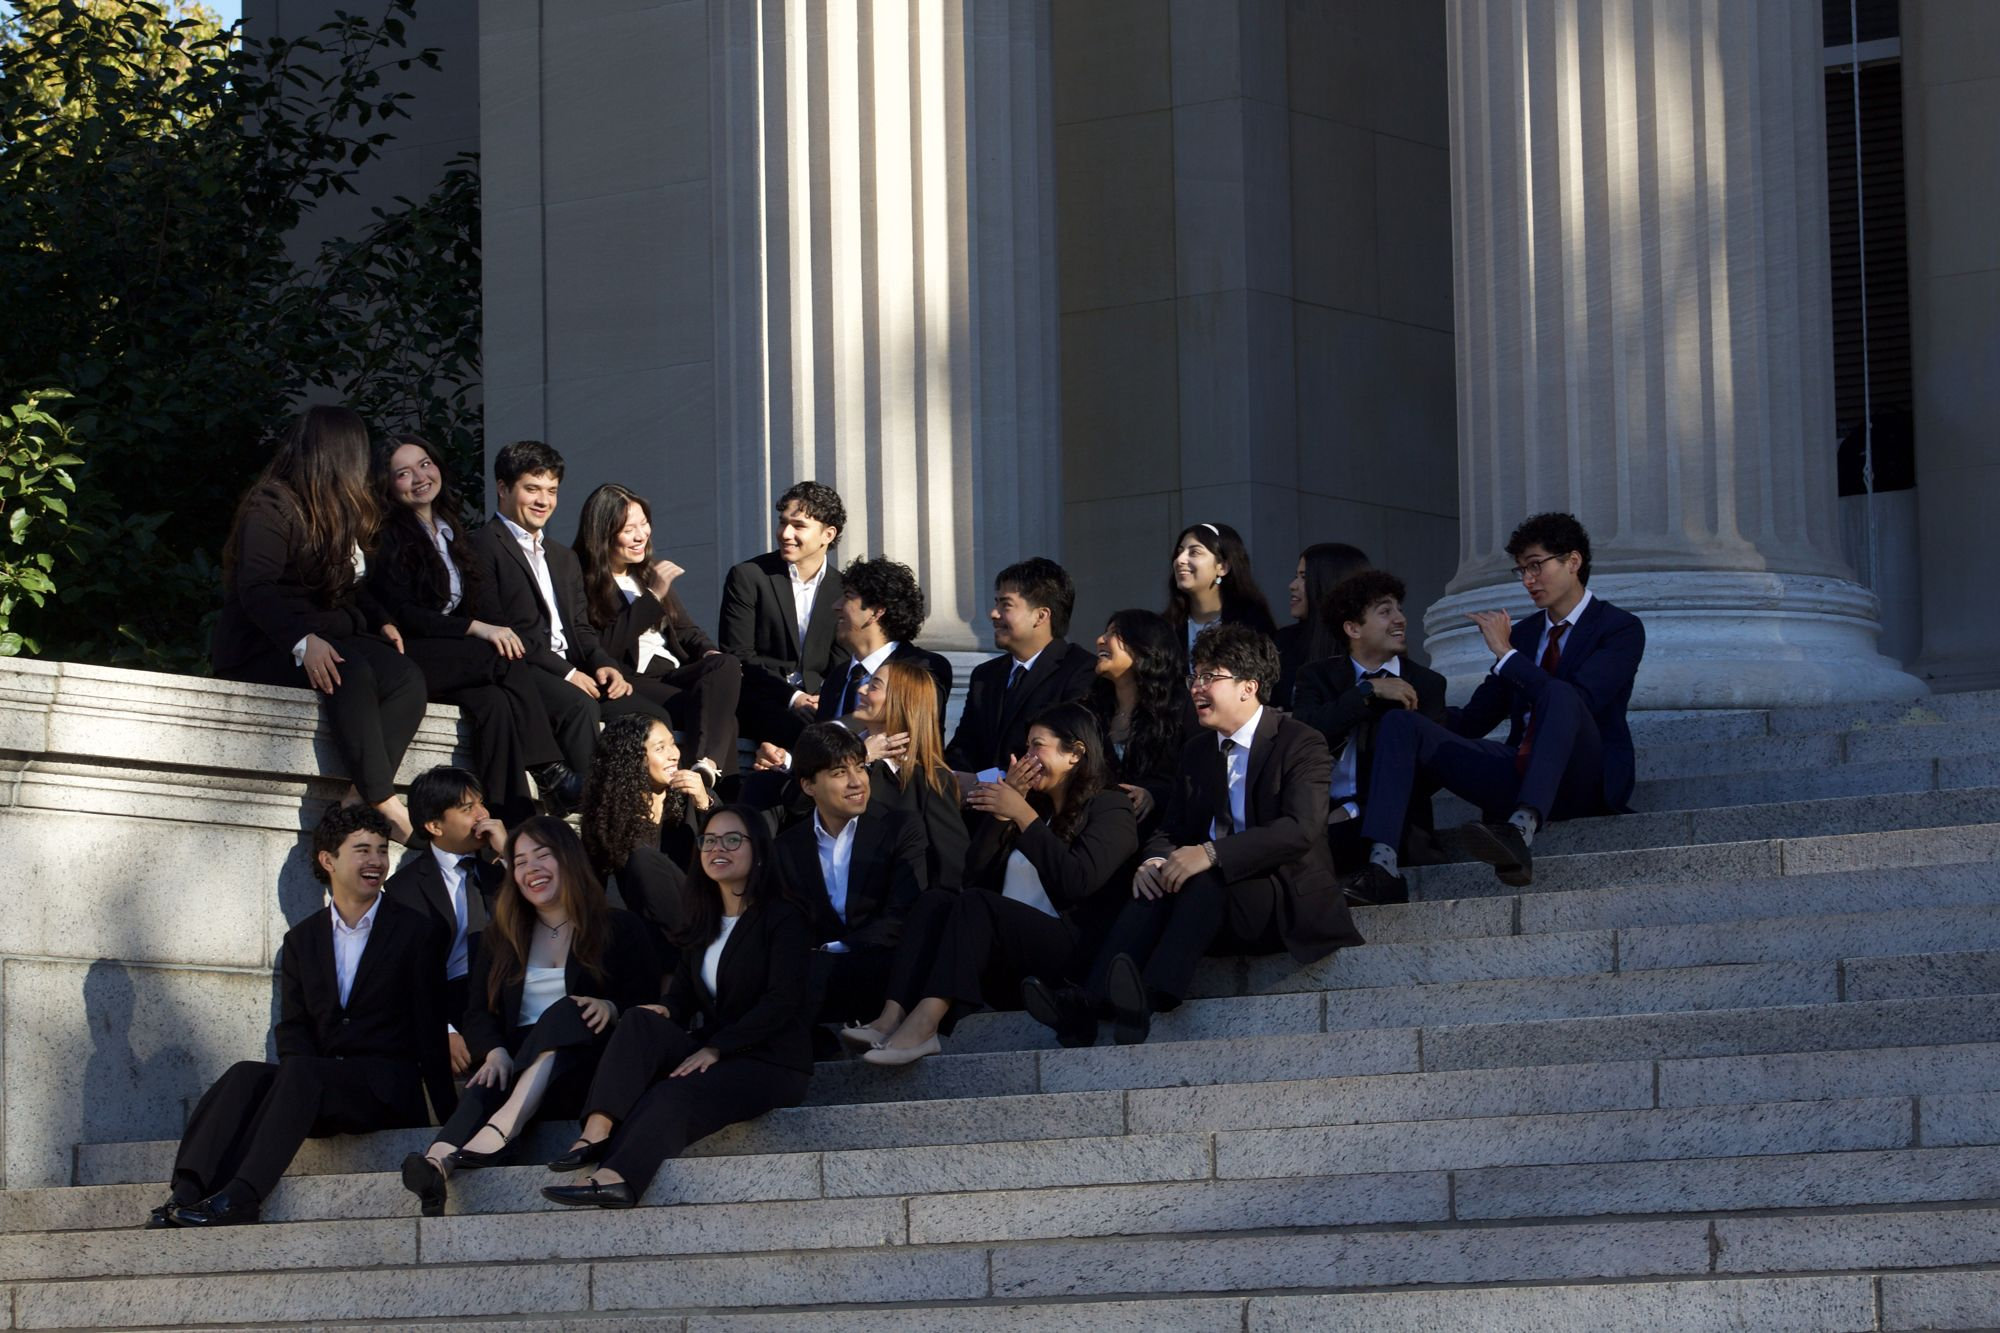
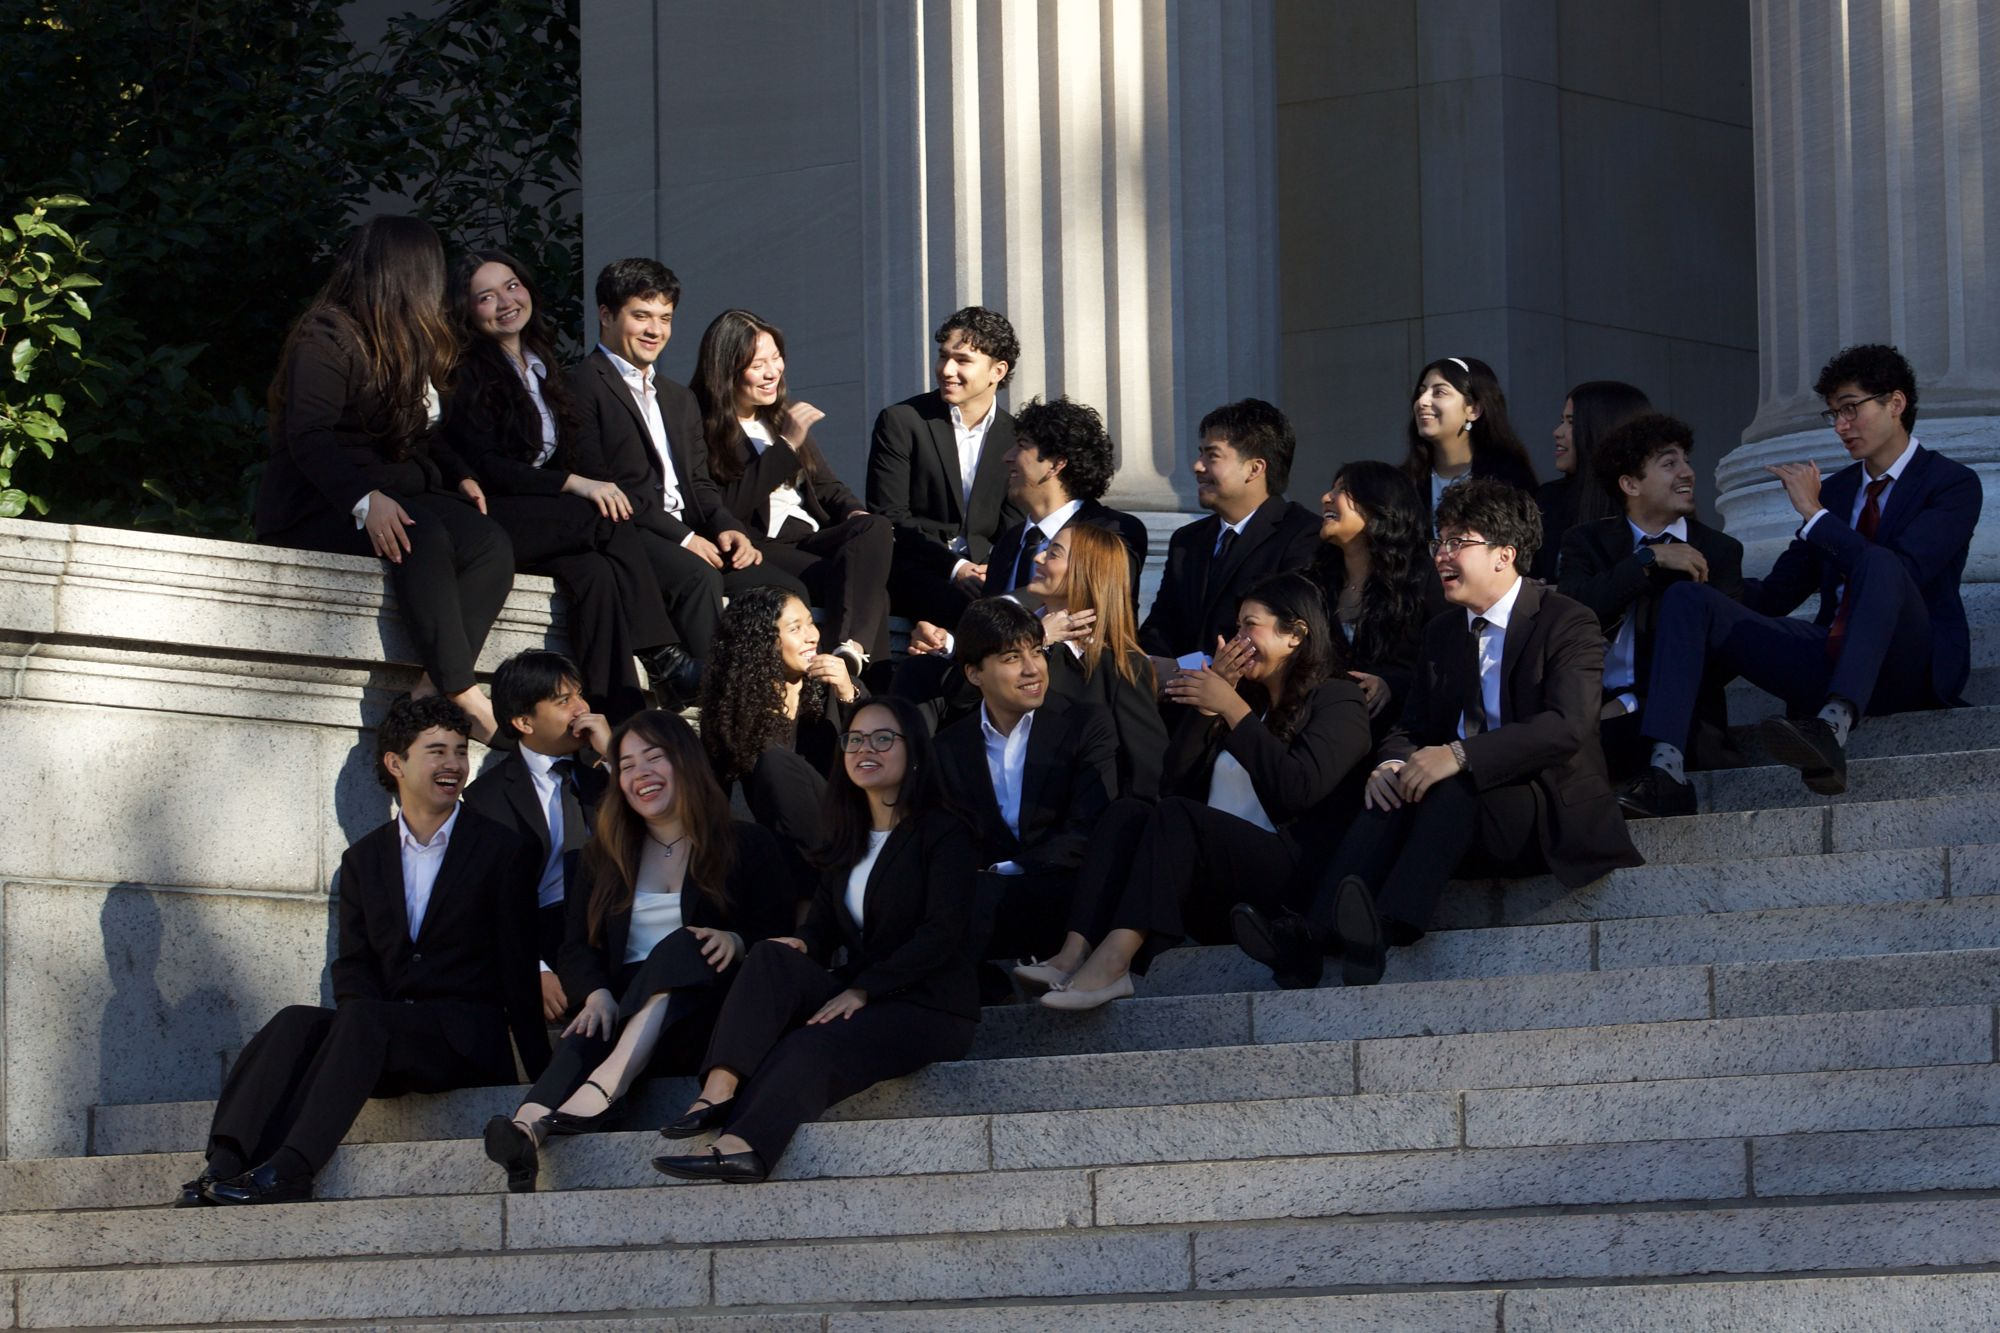
Menu order, Sponsors photo crop, spell out OCM
- Menu: Home, About, Events, Programs, Convention, Team
- Sponsors hero: crop the empty steps on the right
- Team: "Operational Committee Members" instead of OCM

diff --git a/src/pages/Team.tsx b/src/pages/Team.tsx
@@ -52,7 +52,7 @@ export function Team() {
       <div className="container team">
         <TeamGroup title="Co-Presidents" members={coPresidents} />
         <TeamGroup title="Executive Board" members={executiveBoard} />
-        <TeamGroup title="OCM" subtitle="Supporting our programs, events, and ALPFAMILIA community." members={ocm} large />
+        <TeamGroup title="Operational Committee Members" subtitle="Supporting our programs, events, and ALPFAMILIA community." members={ocm} large />
       </div>
     </>
   )

diff --git a/src/data/site.ts b/src/data/site.ts
@@ -20,9 +20,9 @@ export type NavItem = { label: string; to: string; external?: boolean }
 export const navItems: NavItem[] = [
   { label: 'Home', to: '/' },
   { label: 'About', to: '/about' },
+  { label: 'Events', to: '/events' },
   { label: 'Programs', to: '/programs' },
   { label: 'Convention', to: '/convention' },
-  { label: 'Events', to: '/events' },
   { label: 'Team', to: '/team' },
 ]
 

diff --git a/src/pages/Sponsors.tsx b/src/pages/Sponsors.tsx
@@ -25,7 +25,7 @@ export function Sponsors() {
               </a>
             </div>
           </div>
-          <Photo className="sponsor-hero__photo" src="/images/sponsors-hero.jpg" alt="ALPFA Columbia members at PwC" />
+          <Photo className="sponsor-hero__photo" src="/images/sponsors-hero.jpg" alt="ALPFA Columbia members on the Low Library steps" />
         </div>
       </section>
 
